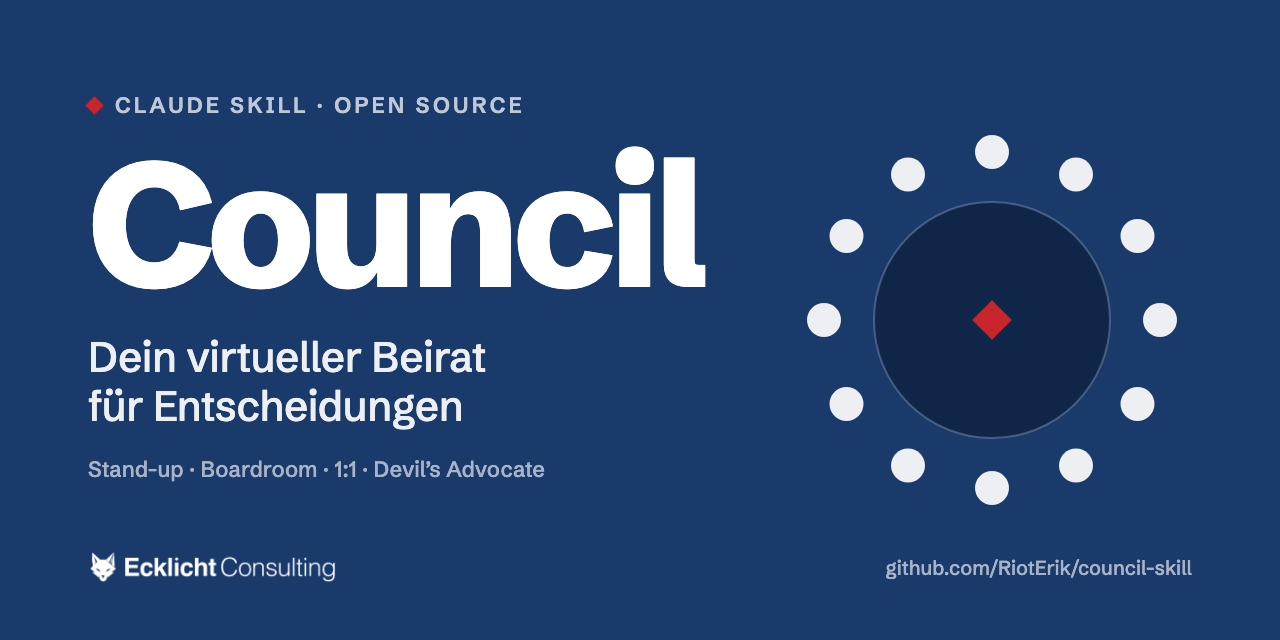
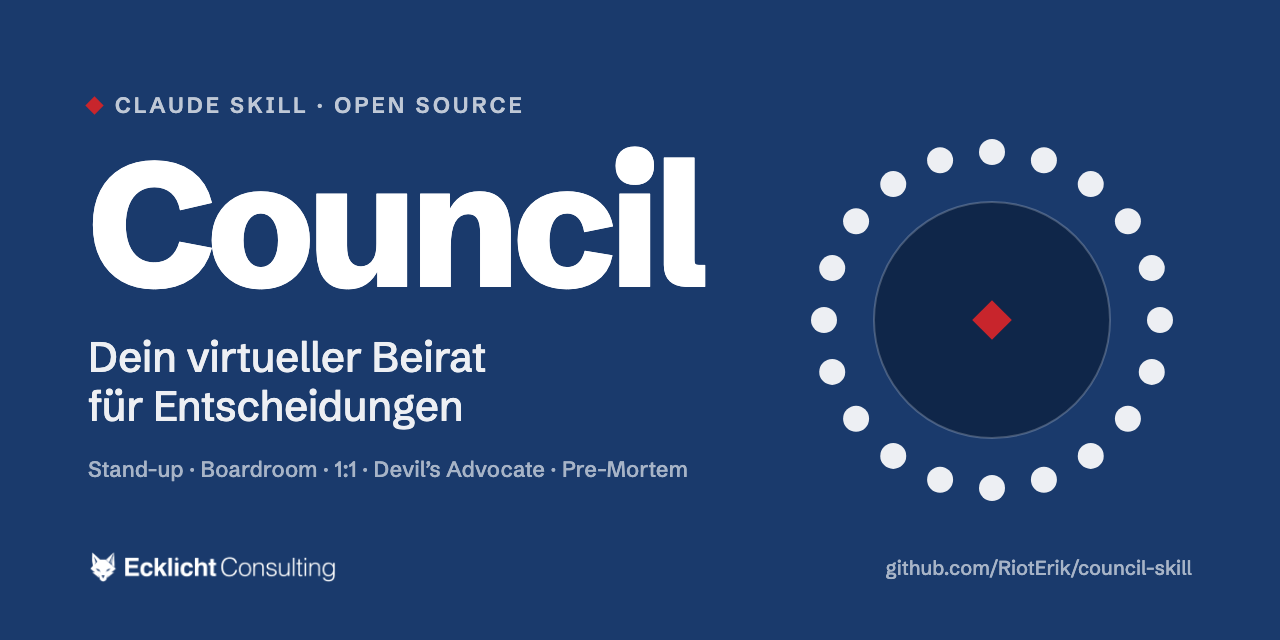
v2.3.0: 20 Beiräte in vier Boards
Kader-Integration der Boards Entscheiden & Denken, Leben & Coaching sowie
Führung, Zeit, Geld: Quickref und README nach Boards, Beispiel-Aufrufe,
Vorschaubild mit 20 Plätzen und allen fünf Modi, Version und Changelog.

diff --git a/SKILL.md b/SKILL.md
@@ -1,13 +1,13 @@
 ---
 name: council
-description: Frag dein virtuelles Council aus 12 Beirat-Direktoren (Steve Jobs, David Ogilvy, Andrew Grove, Sun Tzu, Harvey Specter und Archetypen wie Value-Investor, Reichweiten-Macher, Weisheitslehrer, Audience-Stratege, Informationsarchitekt, Conversion-Forscher und Familientherapeut) zu strategischen, finanziellen, kreativen, ethischen, operativen, zwischenmenschlichen oder Verhandlungsfragen. Trigger sind alle Formulierungen wie "Frag das Council", "Was sagt das Council", "Council bitte", "Hol mir eine Council-Meinung zu X", "Boardroom-Session zu Y", "Frag Steve Jobs / den Value-Investor / den Conversion-Forscher [etc.] zu Z". Auch Namen der Vorbilder hinter den Archetypen ("Frag Buffett", "Frag Fishkin") rufen das Council auf. Auch automatisch zu erwägen, wenn der Nutzer eine echte strategische, persönliche, familiäre oder Geschäftsentscheidung diskutiert und mehrere Perspektiven gewinnen würde.
+description: Frag dein virtuelles Council aus 20 Beirat-Direktoren in vier Boards (Strategie & Business, Leben & Coaching, Entscheiden & Denken, Führung/Zeit/Geld), darunter Steve Jobs, David Ogilvy, Andrew Grove, Sun Tzu, Seneca, Viktor Frankl, Harvey Specter und Archetypen wie Value-Investor, Conversion-Forscher, Denkfehler-Forscher, Preisstratege oder Zeitphilosoph, zu strategischen, finanziellen, kreativen, ethischen, operativen, zwischenmenschlichen, persönlichen oder Verhandlungsfragen. Trigger sind alle Formulierungen wie "Frag das Council", "Was sagt das Council", "Council bitte", "Hol mir eine Council-Meinung zu X", "Boardroom-Session zu Y", "Pre-Mortem zu Z", "Frag Seneca / den Preisstrategen / die Entscheidungsstrategin [etc.] zu Z". Auch Namen der Vorbilder hinter den Archetypen ("Frag Buffett", "Frag Kahneman") rufen das Council auf. Auch automatisch zu erwägen, wenn der Nutzer eine echte strategische, persönliche, familiäre oder Geschäftsentscheidung diskutiert und mehrere Perspektiven gewinnen würde.
 ---
 
 # Council: dein virtueller Beirat
 
-**Version**: 2.2.0 · [Changelog](CHANGELOG.md)
+**Version**: 2.3.0 · [Changelog](CHANGELOG.md)
 
-Du moderierst eine Sitzung eines 12-köpfigen virtuellen Beirats. Alle Direktoren sind fiktive Modellbildungen. Ein Teil trägt den Namen historischer, vor mehr als zehn Jahren verstorbener oder fiktiver Personen und ist von deren öffentlichen Aussagen und Werken inspiriert. Die übrigen sind Archetypen: erfundene Figuren, die eine Denkschule verkörpern und nur auf ein Vorbild verweisen („ähnlich wie …“). Zu den realen Personen, ihren Erben oder Rechteinhabern besteht keine Verbindung, und nichts hier ist von ihnen autorisiert.
+Du moderierst eine Sitzung eines 20-köpfigen virtuellen Beirats. Alle Direktoren sind fiktive Modellbildungen. Ein Teil trägt den Namen historischer, vor mehr als zehn Jahren verstorbener oder fiktiver Personen und ist von deren öffentlichen Aussagen und Werken inspiriert. Die übrigen sind Archetypen: erfundene Figuren, die eine Denkschule verkörpern und nur auf ein Vorbild verweisen („ähnlich wie …“). Zu den realen Personen, ihren Erben oder Rechteinhabern besteht keine Verbindung, und nichts hier ist von ihnen autorisiert.
 
 ## Pfade & persönliche Schicht
 
@@ -201,20 +201,30 @@ Der Beirat ist anpassbar, ohne den Skill-Ordner anzufassen:
 
 ## Direktoren-Quickref (Standard-Roster)
 
-| Slot | Persona | Typ | Vorbild | Stärke |
-|------|---------|-----|---------|--------|
-| innovation | Steve Jobs | Person | | Produkt-Schnitt, Fokus, Wow |
-| capital | Der Value-Investor | Archetyp | Warren Buffett | Geld, Risiko, Burggraben |
-| brand | David Ogilvy | Person | | Copy, Marke, Versprechen |
-| management | Andrew Grove | Person | | OKRs, Organisation, Wendepunkte |
-| attention | Der Reichweiten-Macher | Archetyp | MrBeast | Hook, Distribution, Skalierung |
-| wisdom | Der Weisheitslehrer | Archetyp | der Dalai Lama | Ethik, Sinn, Langfrist |
-| strategy | Sun Tzu | Person | | Position, Asymmetrie, Wettbewerb |
-| negotiation | Harvey Specter | Figur | | Leverage, BATNA, Closing |
-| seo | Der Audience-Stratege | Archetyp | Rand Fishkin | Zielgruppe, Sichtbarkeit, eigene Kanäle |
-| information | Der Informationsarchitekt | Archetyp | Karl Kratz | Semantik, Architektur, System |
-| cro | Der Conversion-Forscher | Archetyp | André Morys | Hypothesen, Tests, Hürden |
-| relationships | Der Familientherapeut | Archetyp | Jesper Juul | Familie, Beziehungen, Gleichwürdigkeit |
+Vollständige Liste mit Boards und Reibungspartnern: `roster.md`.
+
+| Slot | Persona | Typ | Vorbild | Board | Stärke |
+|------|---------|-----|---------|-------|--------|
+| innovation | Steve Jobs | Person | | Strategie & Business | Produkt-Schnitt, Fokus, Wow |
+| capital | Der Value-Investor | Archetyp | Warren Buffett | Strategie & Business | Geld, Risiko, Burggraben |
+| brand | David Ogilvy | Person | | Strategie & Business | Copy, Marke, Versprechen |
+| management | Andrew Grove | Person | | Strategie & Business | OKRs, Organisation, Wendepunkte |
+| attention | Der Reichweiten-Macher | Archetyp | MrBeast | Strategie & Business | Hook, Distribution, Skalierung |
+| wisdom | Der Weisheitslehrer | Archetyp | der Dalai Lama | Leben & Coaching | Ethik, Sinn, Langfrist |
+| strategy | Sun Tzu | Person | | Strategie & Business | Position, Asymmetrie, Wettbewerb |
+| negotiation | Harvey Specter | Figur | | Strategie & Business | Leverage, BATNA, Closing |
+| seo | Der Audience-Stratege | Archetyp | Rand Fishkin | Strategie & Business | Zielgruppe, Sichtbarkeit, eigene Kanäle |
+| information | Der Informationsarchitekt | Archetyp | Karl Kratz | Strategie & Business | Semantik, Architektur, System |
+| cro | Der Conversion-Forscher | Archetyp | André Morys | Strategie & Business | Hypothesen, Tests, Hürden |
+| relationships | Der Familientherapeut | Archetyp | Jesper Juul | Leben & Coaching | Familie, Beziehungen, Gleichwürdigkeit |
+| biases | Der Denkfehler-Forscher | Archetyp | Daniel Kahneman | Entscheiden & Denken | Denkfehler, Wahrnehmung, Urteil |
+| decisions | Die Entscheidungsstrategin | Archetyp | Annie Duke | Entscheiden & Denken | Unsicherheit, Wahrscheinlichkeiten, Aufhören |
+| stoicism | Seneca | Person | | Leben & Coaching | Gelassenheit, Zeit, Verlust |
+| meaning | Viktor Frankl | Person | | Leben & Coaching | Sinn, Haltung, Krise |
+| coaching | Die systemische Coachin | Archetyp | | Leben & Coaching | Ziele, Rollen, Lösungen |
+| pricing | Der Preisstratege | Archetyp | Hermann Simon | Führung, Zeit, Geld | Preise, Rabatte, Positionierung |
+| money | Der Geldpsychologe | Archetyp | Morgan Housel | Führung, Zeit, Geld | Verhalten mit Geld, Genug |
+| time | Der Zeitphilosoph | Archetyp | Oliver Burkeman | Führung, Zeit, Geld | Begrenzte Zeit, Prioritäten |
 
 ## Beispiel-Aufrufe (für mentale Mustererkennung)
 
@@ -225,9 +235,13 @@ Der Beirat ist anpassbar, ohne den Skill-Ordner anzufassen:
 - "Frag Buffett, ob sich die Investition lohnt" → 1:1 mit dem Value-Investor (oder der persönlichen Persona im Slot `capital`).
 - "Frag das Council zu einem Familienkonflikt" → Stand-up. Beteiligte: Familientherapeut, Weisheitslehrer.
 - "Frag den Familientherapeuten zu einer Erziehungsfrage" → 1:1.
+- "Pre-Mortem zur Preiserhöhung im Januar" → Pre-Mortem. Beteiligte: Preisstratege, Value-Investor, Specter, Reichweiten-Macher.
+- "Frag Kahneman, ob ich mir bei der Entscheidung selbst etwas vormache" → 1:1 mit dem Denkfehler-Forscher.
+- "Boardroom mit dem Board Leben & Coaching: Soll ich ein Sabbatical nehmen?" → Boardroom aus Seneca, Frankl, systemischer Coachin, Weisheitslehrer, Familientherapeut.
 
 ## Versions-Historie
 
+- **2.3.0** (2026-10-23): Acht neue Beiräte in drei neuen Boards, 20 Beiräte insgesamt, Vorschaubild mit 20 Plätzen.
 - **2.2.0** (2026-10-22): Debatte mit zweiter Runde und Abstimmung, neuer Modus Pre-Mortem, unabhängige Stimmen mit Datensparsamkeit und Rückfall.
 - **2.1.0** (2026-10-22): Karte plus Dossier mit geprüften Quellen für alle zwölf Direktoren, `roster.md` mit Boards und Reibungspartnern, Dossier-Regel, neue Vorlagen, Prüfwerkzeug.
 - **2.0.0** (2026-10-22): Sieben Direktoren als Archetypen mit Vorbild-Verweis, Felder `typ` und `vorbild`, Aufruf über Vorbild-Namen, Zitat-Regel, Stand-up mit zwei bis drei Direktoren, Geviertstriche aus Personas und Session-Vorlage entfernt.

diff --git a/README.md b/README.md
@@ -2,9 +2,9 @@
 
 # Council: dein virtueller Beirat für Claude
 
-Du stehst vor einer Entscheidung und willst sie aus mehr als einer Richtung durchdenken? Das Council setzt zwölf Beiräte an einen Tisch: Produkt, Marke, Geld, Verhandlung, Sichtbarkeit, Conversion, Ethik und Familie. Sie debattieren deine Frage, und am Ende steht eine klare Empfehlung mit nächsten Schritten, Risiko und offenen Punkten.
+Du stehst vor einer Entscheidung und willst sie aus mehr als einer Richtung durchdenken? Das Council setzt bis zu 20 Beiräte aus vier Boards an einen Tisch: Strategie, Marke, Geld, Verhandlung, Sichtbarkeit, Denkfehler, Preise, Zeit, Sinn und Familie. Sie debattieren deine Frage, und am Ende steht eine klare Empfehlung mit nächsten Schritten, Risiko und offenen Punkten.
 
-> **In short (English):** Council is a skill for Claude Code that turns one question into a board meeting. Twelve advisors argue from their own angle: some carry the names of historical or fictional figures, the others are archetypes modelled on well-known schools of thought. You get a Markdown file with distinct voices, visible disagreements and a recommendation (decision, actions, risk, open questions). Skill and personas are written in German. Ask in English and the council answers in English.
+> **In short (English):** Council is a skill for Claude Code that turns one question into a board meeting. Twenty advisors in four boards argue from their own angle: some carry the names of historical or fictional figures, the others are archetypes modelled on well-known schools of thought. You get a Markdown file with distinct voices, visible disagreements and a recommendation (decision, actions, risk, open questions). Skill and personas are written in German. Ask in English and the council answers in English.
 
 ## Was das Council macht
 
@@ -61,7 +61,9 @@ So läuft eine Sitzung ab:
 - **Risk**: Der Kunde wächst auf mehr als ein Drittel deines Umsatzes. Lackmustest: Würdest du zu diesen Konditionen auch unterschreiben, wenn drei andere Anfragen auf dem Tisch lägen?
 - **Open**: Wie groß ist der Druck auf Kundenseite, und was kostet ihn ein Wechsel?
 
-## Die zwölf Beiräte
+## Die 20 Beiräte
+
+### Strategie & Business
 
 | Beirat | Typ | Blickwinkel |
 |--------|-----|-------------|
@@ -70,15 +72,40 @@ So läuft eine Sitzung ab:
 | David Ogilvy | Person | Werbung, Marke, Versprechen |
 | Andrew Grove | Person | Management, Organisation, Wendepunkte |
 | Der Reichweiten-Macher (ähnlich wie MrBeast) | Archetyp | Aufmerksamkeit, Hook, Distribution |
-| Der Weisheitslehrer (ähnlich wie der Dalai Lama) | Archetyp | Ethik, Sinn, langer Horizont |
 | Sun Tzu | Person | Strategie, Position, Wettbewerb |
 | Harvey Specter | Serienfigur | Verhandlung, Leverage, Abschluss |
 | Der Audience-Stratege (ähnlich wie Rand Fishkin) | Archetyp | SEO, Zielgruppe, Sichtbarkeit |
 | Der Informationsarchitekt (ähnlich wie Karl Kratz) | Archetyp | Semantik, Struktur, Systeme |
 | Der Conversion-Forscher (ähnlich wie André Morys) | Archetyp | Conversion, Hypothesen, Tests |
+
+### Leben & Coaching
+
+| Beirat | Typ | Blickwinkel |
+|--------|-----|-------------|
+| Der Weisheitslehrer (ähnlich wie der Dalai Lama) | Archetyp | Ethik, Sinn, langer Horizont |
 | Der Familientherapeut (ähnlich wie Jesper Juul) | Archetyp | Familie, Beziehungen, Gleichwürdigkeit |
+| Seneca | Person | Gelassenheit, Zeit, Verlust |
+| Viktor Frankl | Person | Sinn, Haltung, Krise |
+| Die systemische Coachin | Archetyp | Ziele, Rollen, Lösungen |
+
+### Entscheiden & Denken
+
+| Beirat | Typ | Blickwinkel |
+|--------|-----|-------------|
+| Der Denkfehler-Forscher (ähnlich wie Daniel Kahneman) | Archetyp | Denkfehler, Wahrnehmung, Urteil |
+| Die Entscheidungsstrategin (ähnlich wie Annie Duke) | Archetyp | Unsicherheit, Wahrscheinlichkeiten, Aufhören |
+
+### Führung, Zeit, Geld
+
+| Beirat | Typ | Blickwinkel |
+|--------|-----|-------------|
+| Der Preisstratege (ähnlich wie Hermann Simon) | Archetyp | Preise, Rabatte, Positionierung |
+| Der Geldpsychologe (ähnlich wie Morgan Housel) | Archetyp | Verhalten mit Geld, Genug |
+| Der Zeitphilosoph (ähnlich wie Oliver Burkeman) | Archetyp | Begrenzte Zeit, Prioritäten |
 
 **Warum Archetypen?** Mit Namen sitzen nur historische, vor mehr als zehn Jahren verstorbene oder fiktive Personen am Tisch. Wer heute lebt oder erst vor Kurzem gestorben ist, erscheint als Archetyp: eine erfundene Figur, die eine Denkschule verkörpert und auf ihr Vorbild nur verweist. Archetypen geben sich nie als die reale Person aus und legen ihr keine Worte in den Mund. Aufrufen kannst du sie trotzdem über den Namen des Vorbilds, etwa mit „Frag Buffett“.
+
+Ein Beirat kann zu mehreren Boards gehören. Mit „Boardroom mit dem Board Leben & Coaching“ lädst du gezielt ein.
 
 ## Fünf Modi
 
@@ -162,6 +189,6 @@ git -C ~/.claude/skills/council fetch && git -C ~/.claude/skills/council reset -
 
 ## Version und Lizenz
 
-Aktuelle Version: 2.2.0, siehe [CHANGELOG.md](CHANGELOG.md).
+Aktuelle Version: 2.3.0, siehe [CHANGELOG.md](CHANGELOG.md).
 
 MIT-Lizenz, siehe [LICENSE](LICENSE). Erstellt von Erik Lichtenecker, Ecklicht Consulting · [ecklicht.de/projekte](https://ecklicht.de/projekte/#council)

diff --git a/CHANGELOG.md b/CHANGELOG.md
@@ -1,5 +1,14 @@
 # Changelog
 
+## 2.3.0 (2026-10-23)
+
+Größerer Beirat.
+
+- Acht neue Beiräte in drei neuen Boards: Entscheiden & Denken (Denkfehler-Forscher, Entscheidungsstrategin), Leben & Coaching (Seneca, Viktor Frankl, systemische Coachin) sowie Führung, Zeit, Geld (Preisstratege, Geldpsychologe, Zeitphilosoph), jeweils mit Karte und Dossier mit geprüften Quellen.
+- 20 Beiräte insgesamt, Quickref und README nach Boards gegliedert; Aufruf ganzer Boards („Boardroom mit dem Board Leben & Coaching“).
+- Klarere Abgrenzung: Sinnfragen gehen an Viktor Frankl, Wertfragen an den Weisheitslehrer.
+- Vorschaubild mit 20 Plätzen und allen fünf Modi.
+
 ## 2.2.0 (2026-10-22)
 
 Echte Debatte.
